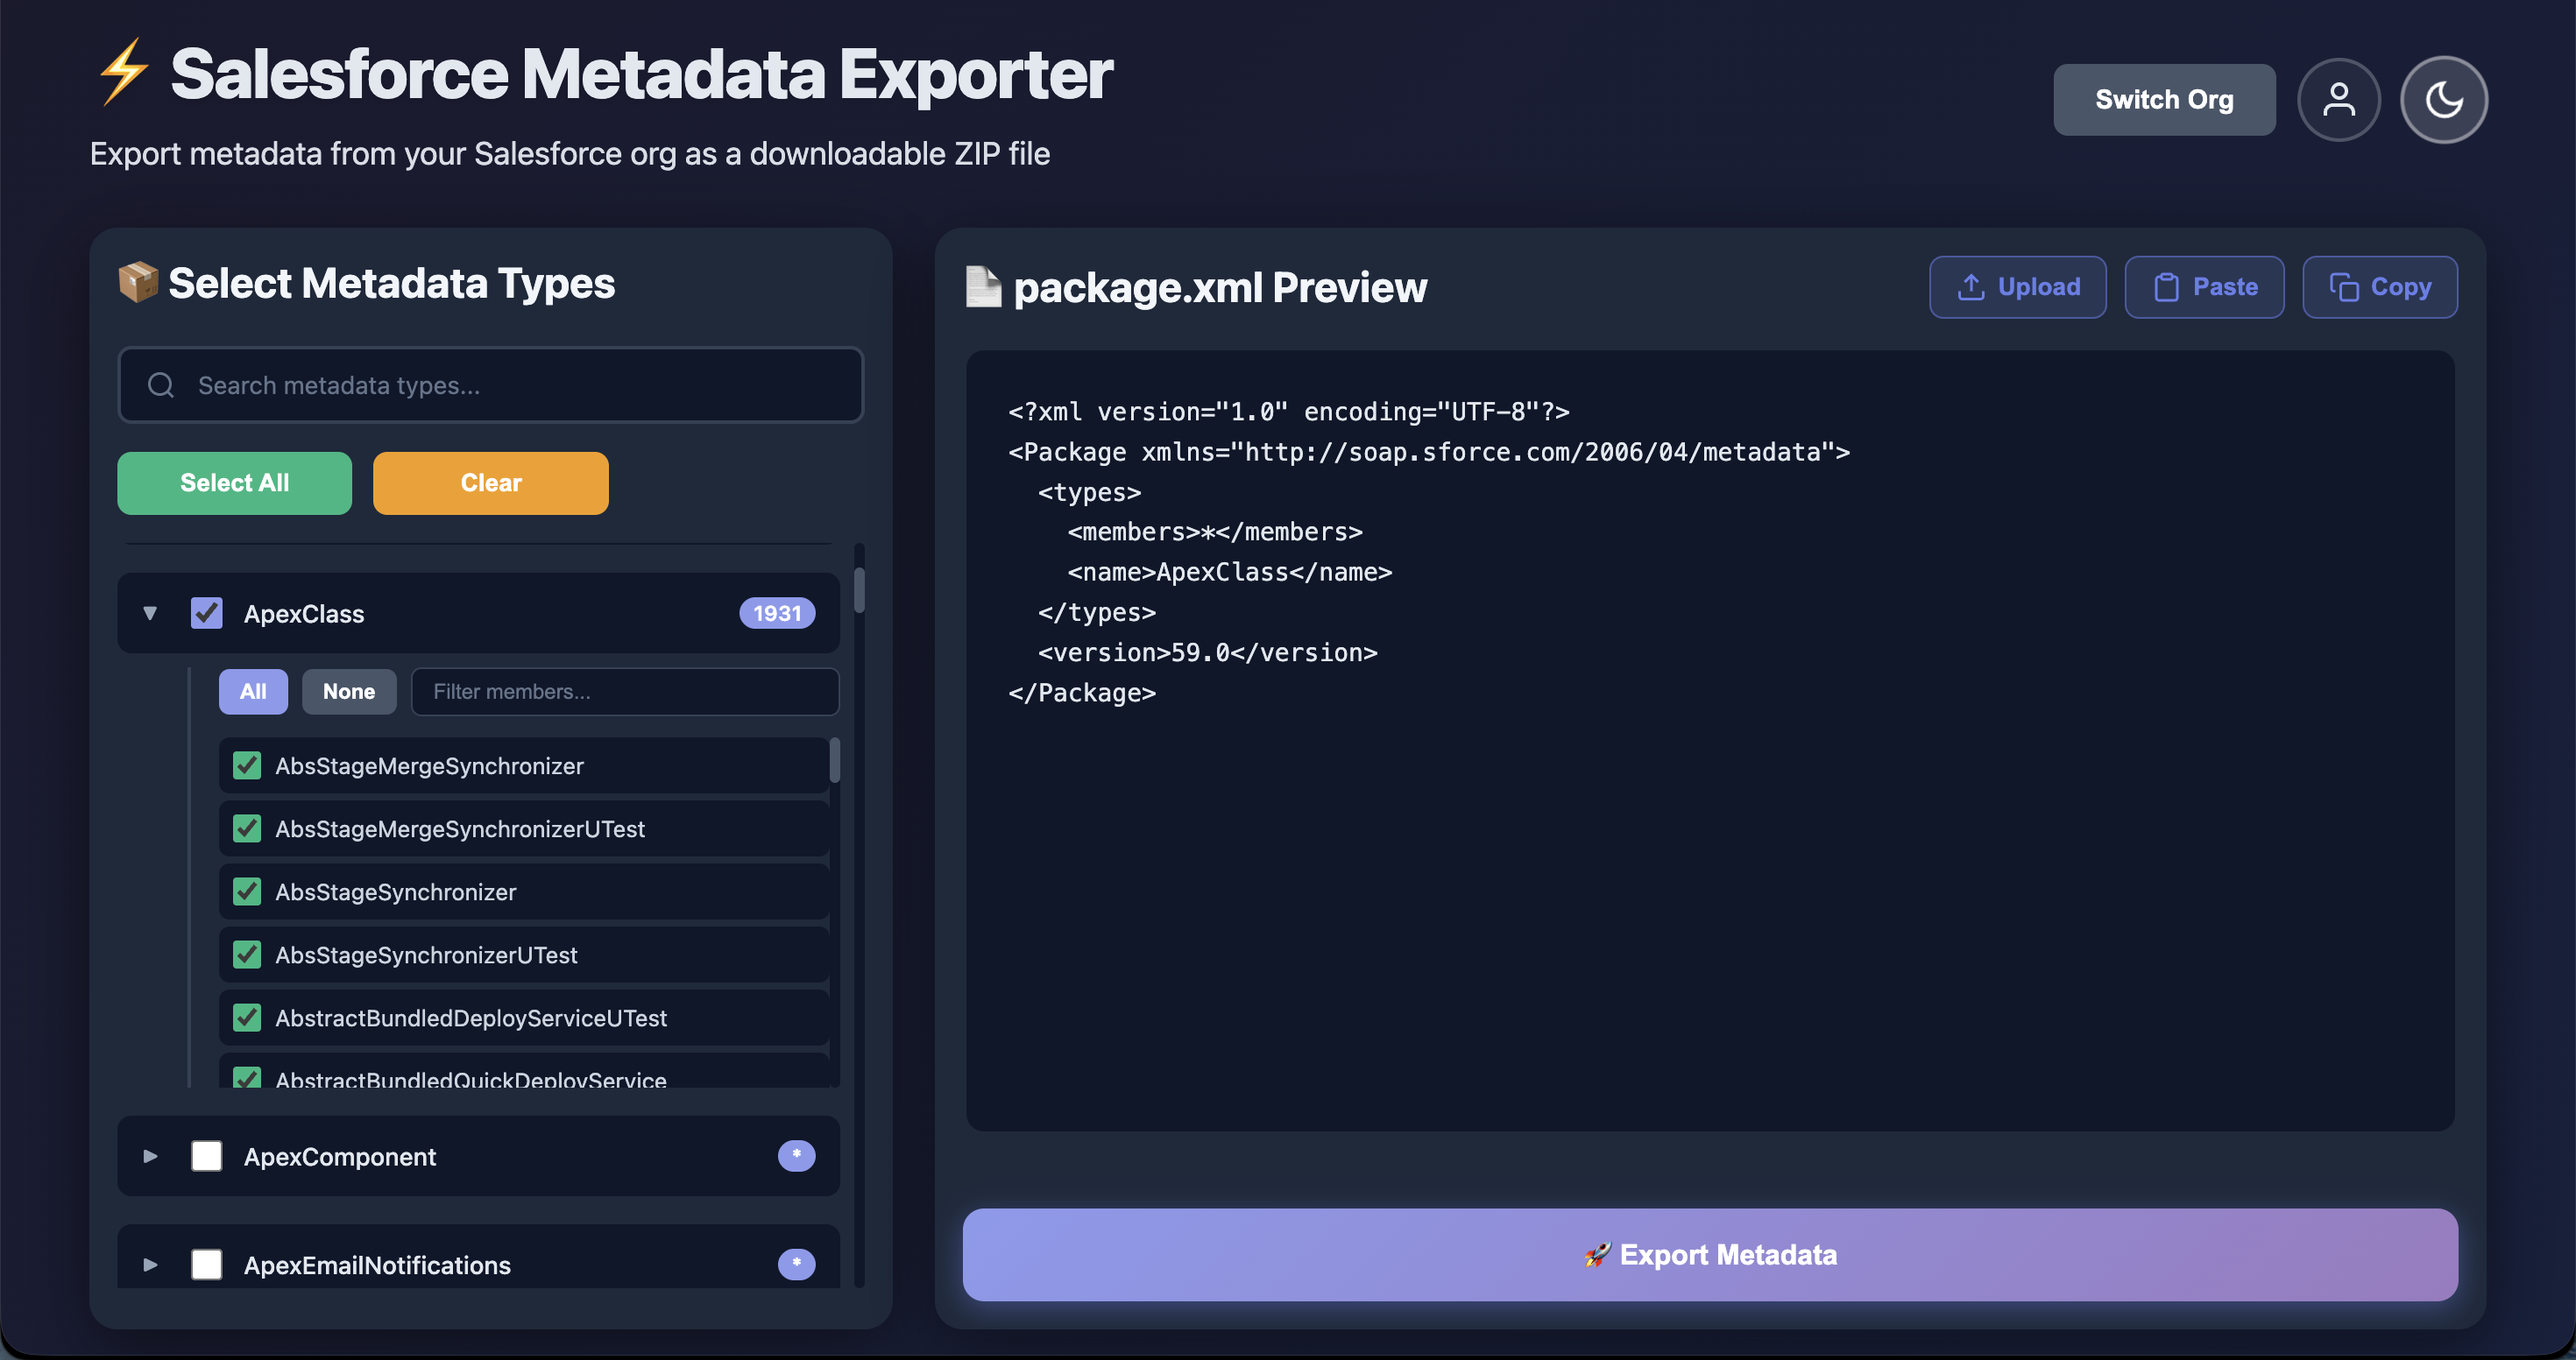
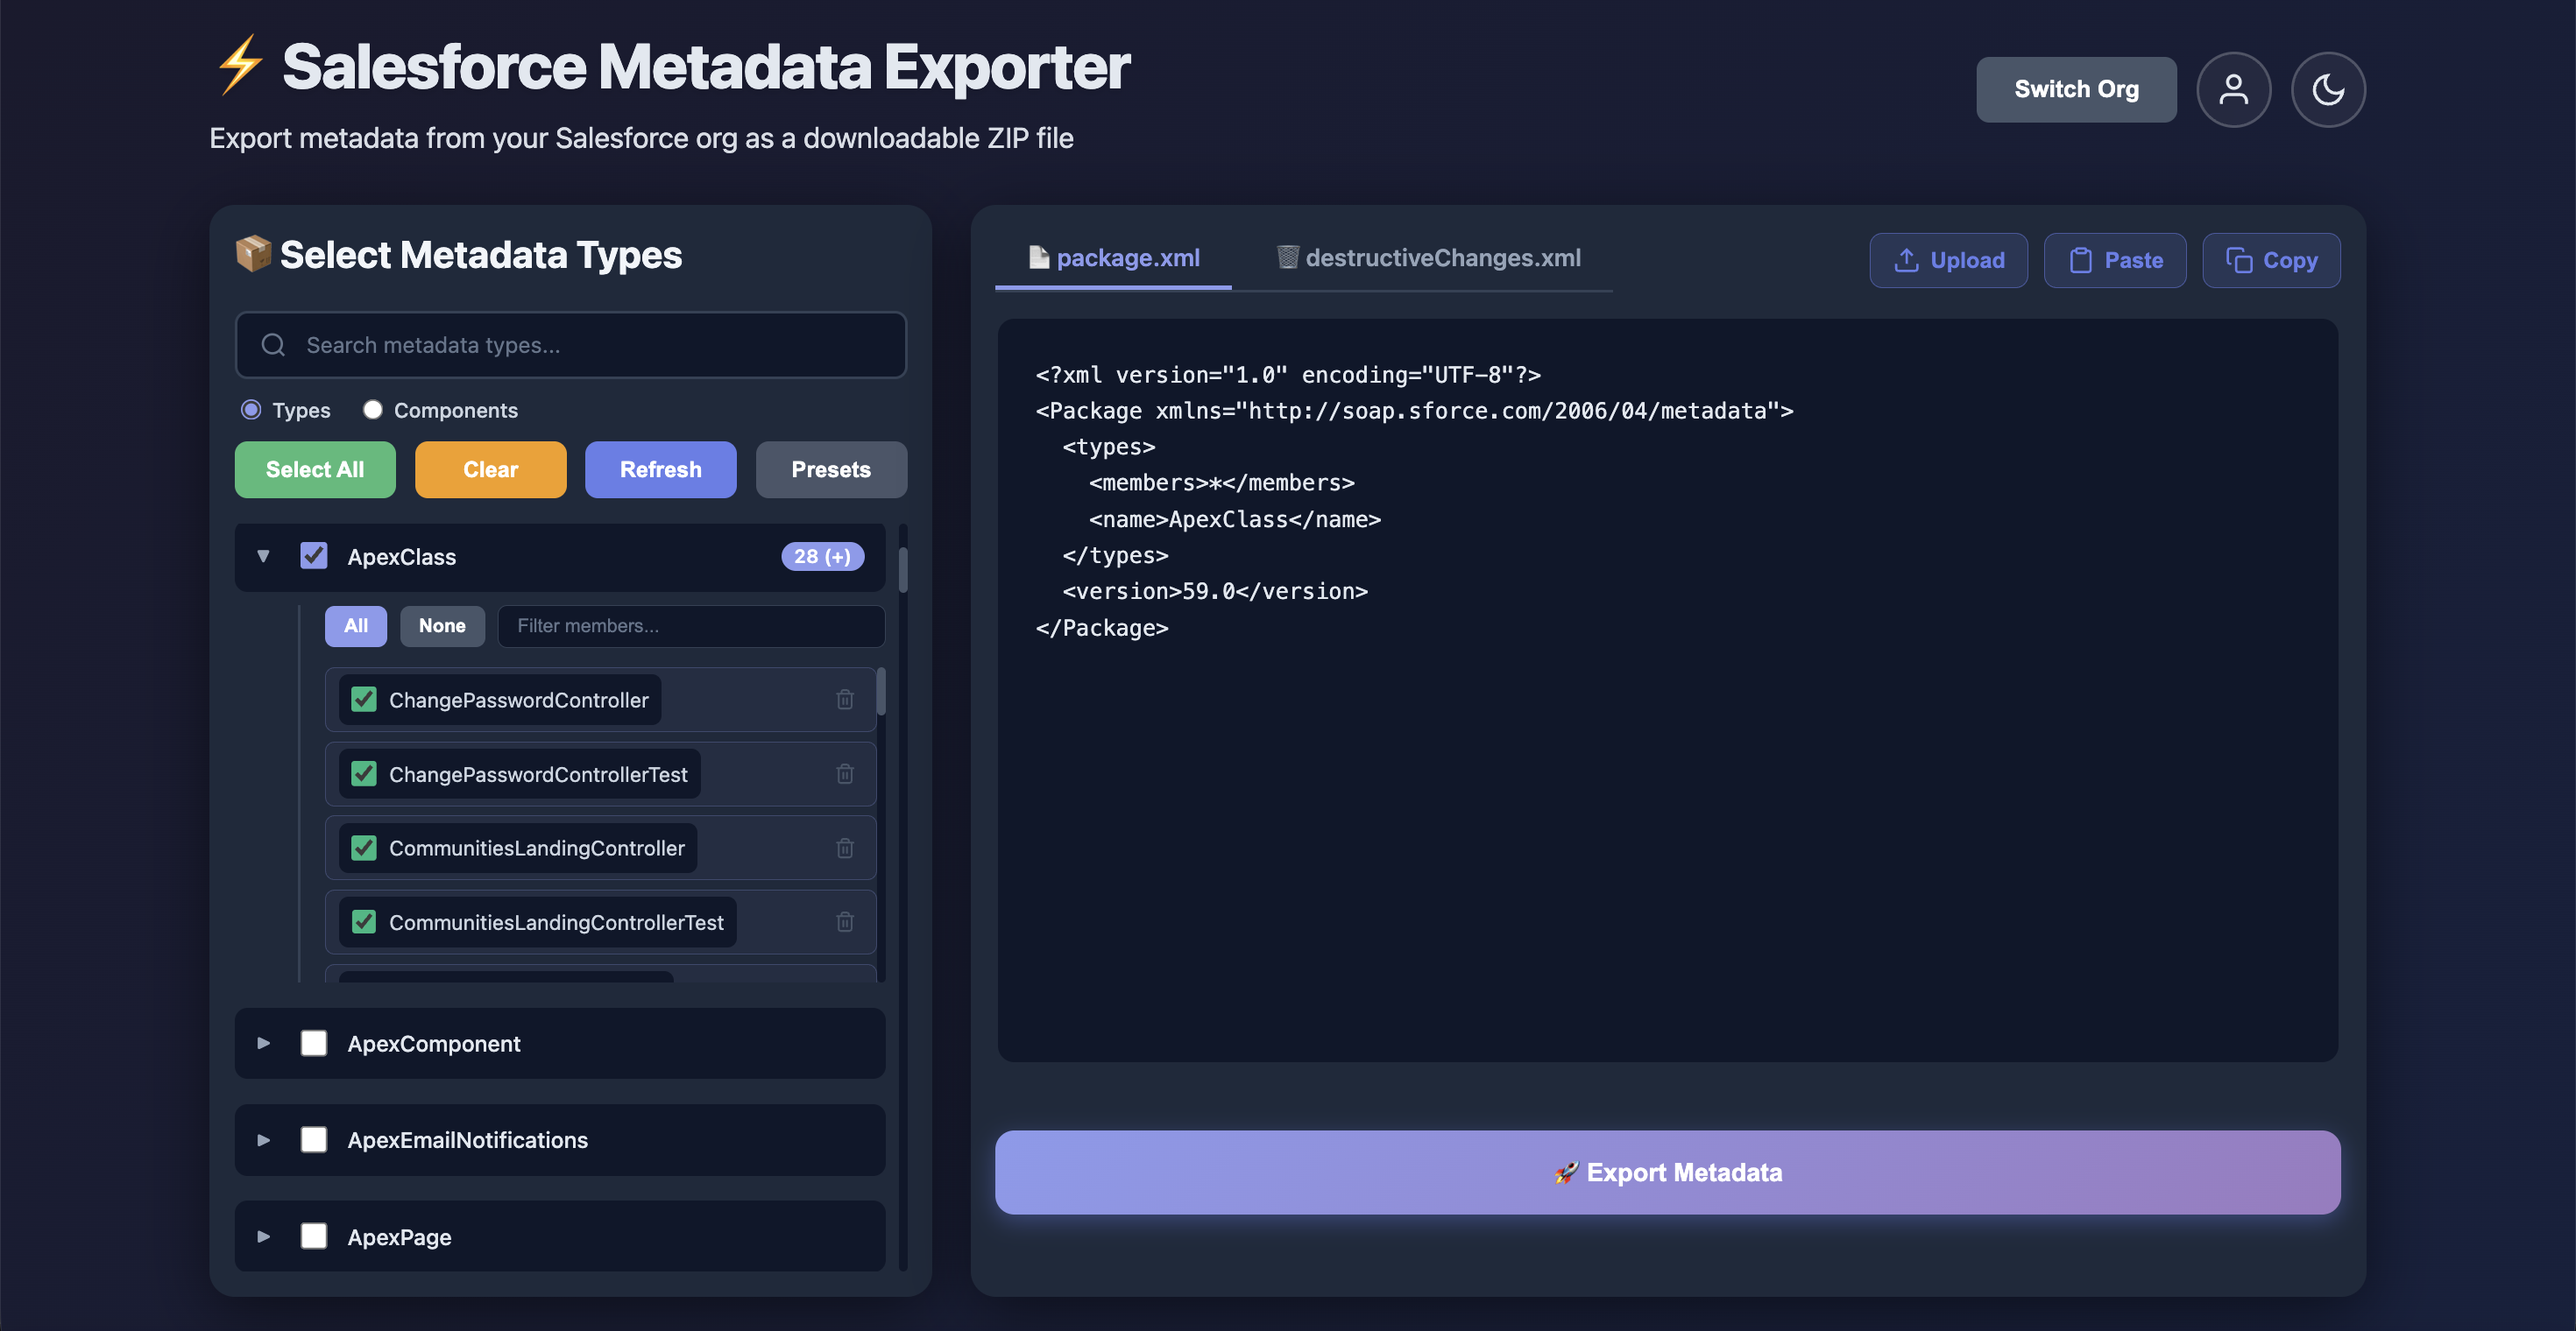
feat: expand destructive changes support and update documentation screenshots

diff --git a/app/index.js b/app/index.js
@@ -1695,18 +1695,32 @@ function selectAllMetadata() {
  * Clear all metadata selections
  */
 function clearAllSelections() {
+  // Clear retrieve state
   selectedMetadataTypes.clear();
+  selectedMembers.clear();
   
-  // Query checkboxes directly
+  // Clear destructive state
+  selectedDestructiveMembers.clear();
+  chrome.storage.local.remove('destructiveChangesXmlContent');
+  
+  // Uncheck all metadata type checkboxes and reset all member row classes
   const checkboxes = document.querySelectorAll('#metadata-types input[type="checkbox"]');
-  
   checkboxes.forEach(checkbox => {
     checkbox.checked = false;
   });
   
-  console.log('[App] Cleared all selections');
+  // Reset member row visual states
+  const memberRows = document.querySelectorAll('.member-row');
+  memberRows.forEach(row => {
+    row.classList.remove('retrieve-selected', 'destructive-selected');
+    const cb = row.querySelector('.member-checkbox');
+    if (cb) cb.checked = false;
+  });
+  
+  console.log('[App] Cleared all selections (retrieve + destructive)');
   
   updateExportButtonState();
+  updateDestructiveWarningUI();
   updatePackagePreview();
   saveSelections();
 }

diff --git a/README.md b/README.md
@@ -164,7 +164,11 @@ The extension focuses on **accuracy, speed, and clarity**, using **Salesforce To
 
 ![Light Mode - Main Page](/screenshots/light-theme-main-page.png)
 
-![Light Mode - Org/Profile Modal](/screenshots/light-theme-profile-page.png)
+![Light Mode - Destructive Changes preview](/screenshots/light-theme-destructive-changes-preview.png)
+
+![Light Mode - Org/Profile Modal](/screenshots/light-theme-profile-window.png)
+
+![Light Mode - Export Confirmation](/screenshots/light-theme-export-confirmation.png)
 
 ### 🌑 Dark Mode
 
